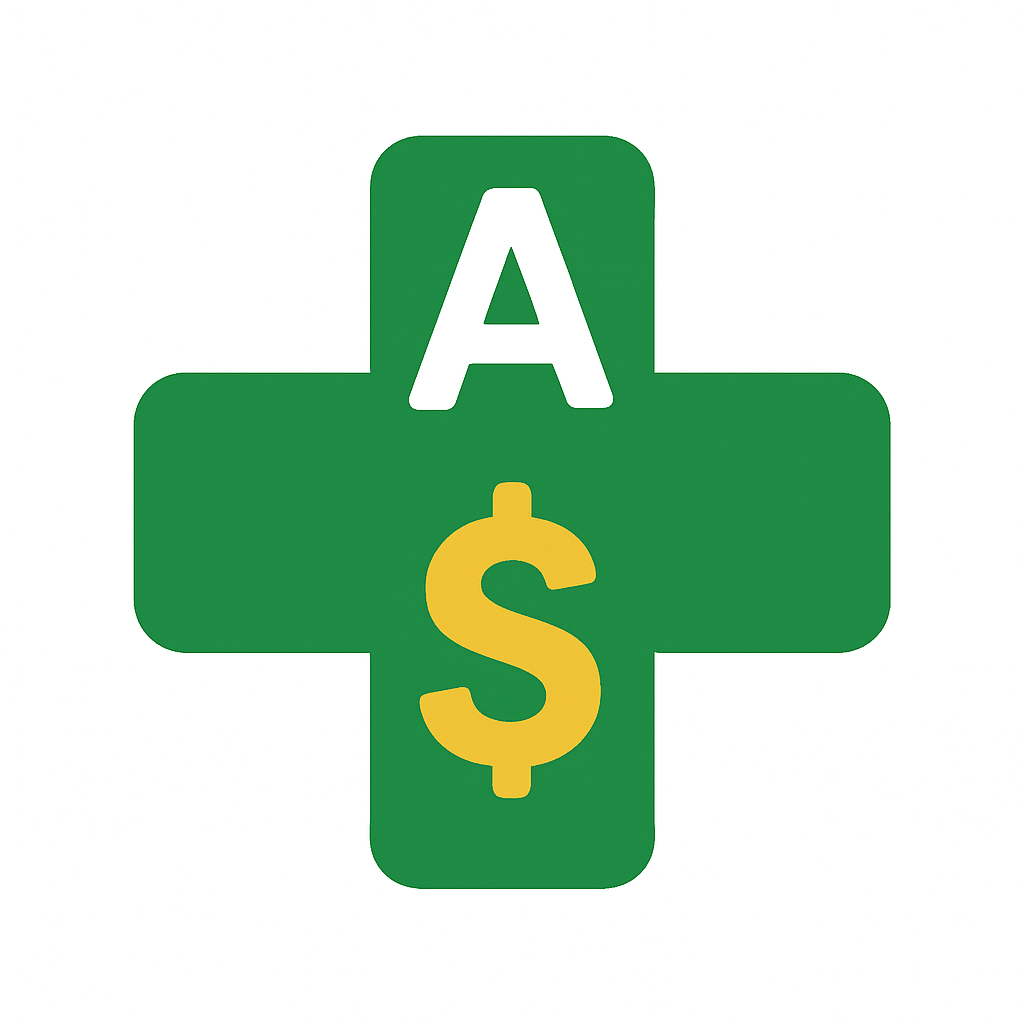
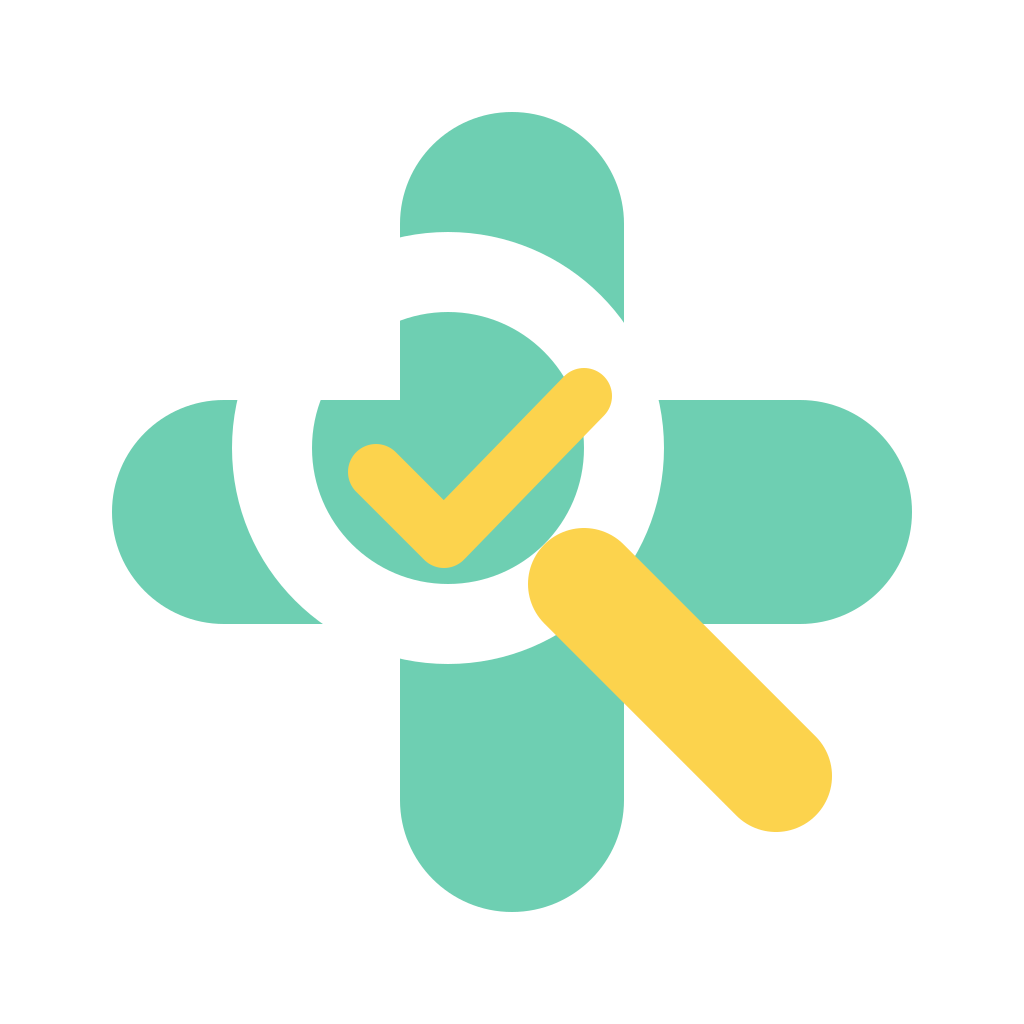
Grouping fixes

diff --git a/frontend/components/BrandLogo.tsx b/frontend/components/BrandLogo.tsx
@@ -1,0 +1,92 @@
+import { cn } from "@/lib/utils";
+
+type LogoMarkProps = {
+  className?: string;
+  title?: string;
+};
+
+export function LogoMark({ className, title }: LogoMarkProps) {
+  return (
+    <svg
+      viewBox="0 0 64 64"
+      className={cn("h-10 w-10 shrink-0", className)}
+      role={title ? "img" : undefined}
+      aria-hidden={title ? undefined : true}
+      xmlns="http://www.w3.org/2000/svg"
+    >
+      {title ? <title>{title}</title> : null}
+      <rect
+        x="25"
+        y="7"
+        width="14"
+        height="50"
+        rx="7"
+        className="fill-health-accent"
+      />
+      <rect
+        x="7"
+        y="25"
+        width="50"
+        height="14"
+        rx="7"
+        className="fill-health-accent"
+      />
+      <circle
+        cx="28"
+        cy="28"
+        r="11"
+        fill="none"
+        stroke="currentColor"
+        strokeWidth="5"
+        className="text-white"
+      />
+      <path
+        d="M36.5 36.5 48.5 48.5"
+        fill="none"
+        stroke="currentColor"
+        strokeLinecap="round"
+        strokeWidth="7"
+        className="text-amber-300"
+      />
+      <path
+        d="m23.5 29.5 4.25 4.25 8.75-9"
+        fill="none"
+        stroke="currentColor"
+        strokeLinecap="round"
+        strokeLinejoin="round"
+        strokeWidth="3.5"
+        className="text-amber-300"
+      />
+    </svg>
+  );
+}
+
+type BrandLogoProps = {
+  className?: string;
+  markClassName?: string;
+  textClassName?: string;
+  showText?: boolean;
+};
+
+export default function BrandLogo({
+  className,
+  markClassName,
+  textClassName,
+  showText = true,
+}: BrandLogoProps) {
+  return (
+    <span className={cn("inline-flex items-center gap-2.5", className)} aria-label="Apošteka">
+      <LogoMark className={markClassName} />
+      {showText ? (
+        <span
+          className={cn(
+            "leading-none font-extrabold tracking-normal text-2xl text-slate-900 dark:text-white",
+            textClassName
+          )}
+        >
+          Apo<span className="text-health-secondary dark:text-health-accent">šteka</span>
+        </span>
+      ) : null}
+    </span>
+  );
+}

diff --git a/frontend/components/ProductSkeleton.tsx b/frontend/components/ProductSkeleton.tsx
@@ -8,26 +8,36 @@ export default function ProductSkeleton({ count = 6 }: ProductSkeletonProps) {
   return (
     <div className="grid grid-cols-1 md:grid-cols-2 lg:grid-cols-3 gap-6">
       {[...Array(count)].map((_, i) => (
-        <div key={i} className="animate-pulse">
-          <div className="bg-white dark:bg-gray-800 rounded-lg shadow-md p-4">
-            {/* Image skeleton */}
-            <div className="bg-gray-200 dark:bg-gray-700 rounded-lg h-48 mb-4"></div>
+        <div
+          key={i}
+          className="animate-pulse rounded-lg border border-gray-200 dark:border-gray-700 bg-white dark:bg-gray-800 p-4 flex flex-col gap-4"
+        >
+          {/* Image */}
+          <div className="bg-gray-200 dark:bg-gray-700 rounded-lg h-48" />
 
-            {/* Title skeleton */}
-            <div className="space-y-2 mb-4">
-              <div className="h-4 bg-gray-200 dark:bg-gray-700 rounded w-3/4"></div>
-              <div className="h-4 bg-gray-200 dark:bg-gray-700 rounded w-1/2"></div>
-            </div>
-
-            {/* Price skeleton */}
-            <div className="flex justify-between items-center mb-4">
-              <div className="h-6 bg-gray-200 dark:bg-gray-700 rounded w-24"></div>
-              <div className="h-4 bg-gray-200 dark:bg-gray-700 rounded w-20"></div>
-            </div>
-
-            {/* Button skeleton */}
-            <div className="h-10 bg-gray-200 dark:bg-gray-700 rounded"></div>
+          {/* Title (2 lines) */}
+          <div className="space-y-2">
+            <div className="h-4 bg-gray-200 dark:bg-gray-700 rounded w-3/4" />
+            <div className="h-4 bg-gray-200 dark:bg-gray-700 rounded w-1/2" />
           </div>
+
+          {/* "Već od" label + price + vendor count */}
+          <div className="flex items-end justify-between">
+            <div className="space-y-2">
+              <div className="h-3 bg-gray-200 dark:bg-gray-700 rounded w-12" />
+              <div className="h-6 bg-gray-200 dark:bg-gray-700 rounded w-24" />
+            </div>
+            <div className="h-4 bg-gray-200 dark:bg-gray-700 rounded w-20" />
+          </div>
+
+          {/* Comparison summary box */}
+          <div className="rounded-xl border border-gray-200 dark:border-gray-700 p-3 space-y-2">
+            <div className="h-3 bg-gray-200 dark:bg-gray-700 rounded w-2/3" />
+            <div className="h-3 bg-gray-200 dark:bg-gray-700 rounded w-1/3" />
+          </div>
+
+          {/* Button */}
+          <div className="h-10 bg-gray-200 dark:bg-gray-700 rounded-md mt-auto" />
         </div>
       ))}
     </div>

diff --git a/frontend/app/page.tsx b/frontend/app/page.tsx
@@ -6,13 +6,13 @@ import HeroSection from "@/components/HeroSection";
 import ProductList from "@/components/ProductList";
 import { searchGroupsStreaming, fetchGroupsPage, getFeaturedProducts, getGlobalFacets, SearchResult, StreamingSearchResult } from "@/lib/api";
 import { convertBackendProductToProduct, convertProductGroupToProducts, ProductGroup } from "@/types/product";
-import { Spinner } from "@/components/ui/spinner";
+import ProductSkeleton from "@/components/ProductSkeleton";
 import Footer from "@/components/Footer";
 import { FilterSidebar, FilterState, defaultFilters, Facets } from "@/components/FilterSidebar";
 import { FilterChips } from "@/components/FilterChips";
 import { ResultsToolbar } from "@/components/ResultsToolbar";
 import { Button } from "@/components/ui/button";
-import { Filter, Loader2 } from "lucide-react";
+import { Filter } from "lucide-react";
 
 export const dynamic = 'force-dynamic';
 
@@ -410,9 +410,7 @@ export default function HomePage() {
   const showSidebar = resultsView || !!facets;
 
   const featuredView = isLoadingFeatured ? (
-    <div className="flex flex-col items-center justify-center py-16">
-      <Spinner size="lg" text="Učitavanje popularnih proizvoda..." />
-    </div>
+    <ProductSkeleton count={6} />
   ) : (
     featuredProducts?.groups && (
       <ProductList
@@ -485,12 +483,7 @@ export default function HomePage() {
 
               <div className="flex-1 min-w-0">
                 {isSearching ? (
-                  <div className="flex flex-col items-center justify-center py-16">
-                    <Spinner size="xl" text="Pretraživanje proizvoda..." />
-                    <p className="mt-4 text-gray-600 dark:text-gray-400 text-center max-w-md">
-                      Pretražujemo bazu proizvoda i pronalazimo najbolje rezultate za vašu pretragu
-                    </p>
-                  </div>
+                  <ProductSkeleton count={6} />
                 ) : searchError ? (
                   <div className="text-center py-12">
                     <p className="text-lg text-red-600">Greška pri pretraživanju</p>
@@ -504,9 +497,8 @@ export default function HomePage() {
                     {/* Infinite scroll trigger */}
                     <div ref={loadMoreRef} className="h-10" />
                     {isLoadingMore && (
-                      <div className="flex justify-center py-8">
-                        <Loader2 className="h-8 w-8 animate-spin text-health-primary" />
-                        <span className="ml-2 text-gray-600 dark:text-gray-400">Učitavanje više proizvoda...</span>
+                      <div className="mt-6">
+                        <ProductSkeleton count={3} />
                       </div>
                     )}
                     {!hasMore && accumulatedGroups.length > 0 && (

diff --git a/frontend/components/Navbar.tsx b/frontend/components/Navbar.tsx
@@ -10,6 +10,7 @@ import { User } from "lucide-react";
 import { useIsMobile } from "@/hooks/use-mobile";
 import { useAuth } from "@/contexts/AuthContext";
 import Link from "next/link";
+import BrandLogo from "./BrandLogo";
 
 const Navbar = () => {
   const pathname = usePathname();
@@ -88,7 +89,7 @@ const Navbar = () => {
           <div className="w-full flex justify-between items-center mb-4 md:mb-0 md:w-auto md:flex-shrink-0">
             <Link
               href="/"
-              className="flex items-center justify-start"
+              className="flex items-center justify-start rounded-md focus-visible:outline-none focus-visible:ring-2 focus-visible:ring-health-primary focus-visible:ring-offset-2 dark:focus-visible:ring-health-accent dark:focus-visible:ring-offset-gray-800"
               onClick={(e) => {
                 e.preventDefault();
                 handleSearch("");
@@ -97,13 +98,7 @@ const Navbar = () => {
                 }
               }}
             >
-              <span className="text-green-400 dark:text-green-300 font-bold text-2xl">
-                Apo
-              </span>
-              <span className="text-yellow-400 font-bold text-2xl">$</span>
-              <span className="text-green-700 dark:text-green-400 font-bold text-2xl">
-                teka
-              </span>
+              <BrandLogo markClassName="h-9 w-9 md:h-10 md:w-10" />
             </Link>
 
             {isMobile && (

diff --git a/frontend/app/layout.tsx b/frontend/app/layout.tsx
@@ -17,6 +17,14 @@ export const metadata: Metadata = {
   keywords:
     "apoteka, lekovi, vitamini, suplementi, zdravstveni proizvodi, uporedjivanje cena, online kupovina, farmaceutski proizvodi, zdrava ishrana, wellness, dijetetski suplementi, prirodni lekovi, medicinski proizvodi, apotekarske usluge, zdravlje i nega",
   authors: [{ name: "Kumovi" }],
+  icons: {
+    icon: [
+      { url: "/favicon.ico", sizes: "any" },
+      { url: "/icon.png", type: "image/png", sizes: "1024x1024" },
+    ],
+    shortcut: "/favicon.ico",
+    apple: "/icon.png",
+  },
   openGraph: {
     title: "Apošteka - Uporedi cene lekova i suplemenata",
     description:

diff --git a/frontend/components/Footer.tsx b/frontend/components/Footer.tsx
@@ -2,6 +2,7 @@ import React from "react";
 import { Instagram, Facebook, Share2 } from "lucide-react";
 import Link from "next/link";
 import { Copyright } from "lucide-react";
+import BrandLogo from "./BrandLogo";
 
 const Footer = () => {
   return (
@@ -9,9 +10,8 @@ const Footer = () => {
       <div className="container mx-auto px-4">
         <div className="grid grid-cols-1 md:grid-cols-4 gap-8">
           <div>
-            <h3 className="font-bold text-xl mb-4">
-              <span className="text-green-400 dark:text-green-300">Apo</span>
-              <span className="text-green-600 dark:text-green-600">šteka</span>
+            <h3 className="mb-4">
+              <BrandLogo markClassName="h-8 w-8" textClassName="text-xl" />
             </h3>
             <p className="text-gray-600 text-sm dark:text-gray-400">
               Uporedite cene u različitim apotekama i pronađite najbolje ponude

diff --git a/ml/scripts/build_dictionaries.py b/ml/scripts/build_dictionaries.py
@@ -87,7 +87,11 @@ ALIAS_DROP = {"mg", "protein", "proteini", "proteina", "proteinski", "proteinska
 # Gold Standard, ...) differentiated by brand/line/flavor/size, not a generic
 # "whey protein" commodity. Grouping all whey into one bucket is as wrong as
 # grouping every face cream as "cream", so they go to the brand-line (Track B) path.
-CANONICAL_DROP = {"magnezijum b6", "vitamin d3 k2", "whey protein", "vegan protein"}
+# Demoted from Track-A: heterogeneous "categories" (not a fungible single ingredient)
+# that over-merge unrelated products under one group. "probiotik" lumped probiotic
+# COOKIES/oatmeal/toothpaste with real supplements (96 RSD cookie .. 6000 RSD), like
+# "whey protein" collapsed every whey into one group. These group by brand/product instead.
+CANONICAL_DROP = {"magnezijum b6", "vitamin d3 k2", "whey protein", "vegan protein", "probiotik"}
 
 # Flavor / sport-supplement descriptor words and generic brand-suffix words. These
 # pollute branded-line identities (protein/gainer/etc.) and must be stripped so the
@@ -104,6 +108,14 @@ CURATED_NOISE = [
     "pistac", "badem", "badema", "oraha", "slani", "salted", "neutralni", "neutralna",
     "neutralno", "neutral", "nezasladjeni", "bez", "ukus", "ukusa", "okus", "okusa",
     "flavor", "flavour", "zero", "pina", "colada", "cheesecake", "marshmallow",
+    # "probiotik" is a heterogeneous CATEGORY, not a fungible ingredient (also dropped
+    # from Track-A, see CANONICAL_DROP). As a bare 9-char residual it re-merged every
+    # unrelated probiotic (a 96 RSD cookie .. a 6000 RSD supplement), so strip it: branded
+    # probiotics still group by brand (Omni Biotic, Linex, Enterobiotik), and the
+    # indistinguishable generic "Probiotik" listings fall to honest per-offer cards
+    # instead of one misleading group.
+    "probiotik", "probiotic", "probiotici", "probiotika", "probiotikom", "probiotske",
+    "probiotska", "probiotski", "probiotics",
     # protein / sport descriptors (the ingredient itself is no longer whitelisted)
     "protein", "proteina", "proteini", "proteinski", "proteinska", "proteinske",
     "whey", "surutka", "surutke", "izolat", "izolata", "izolatom", "isolate", "isolat",